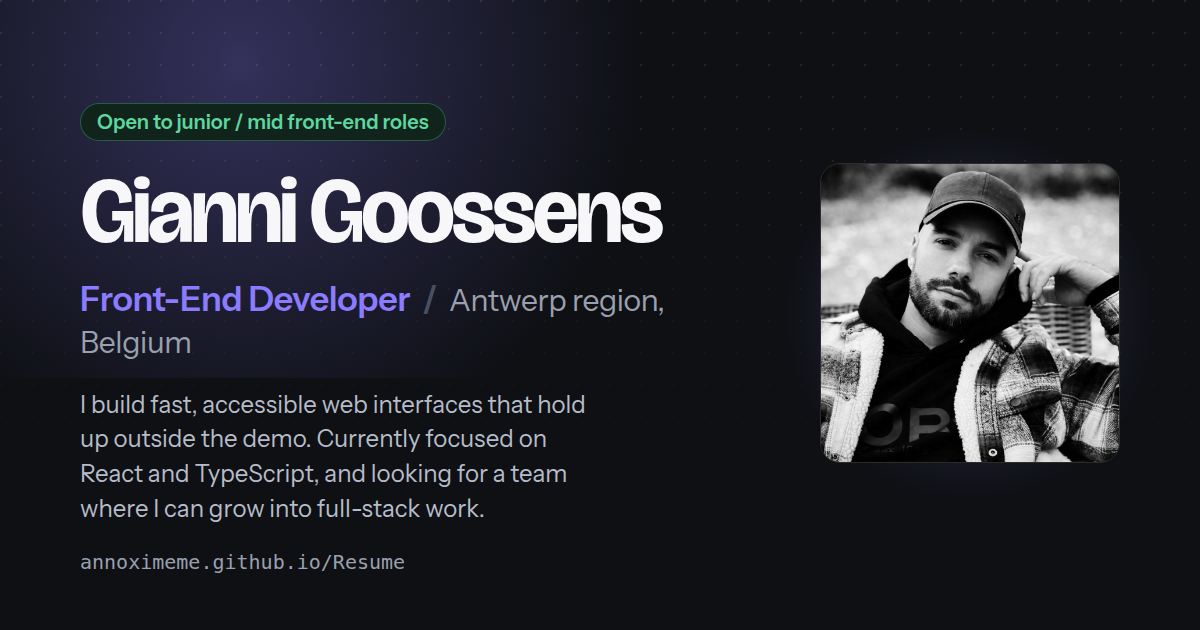
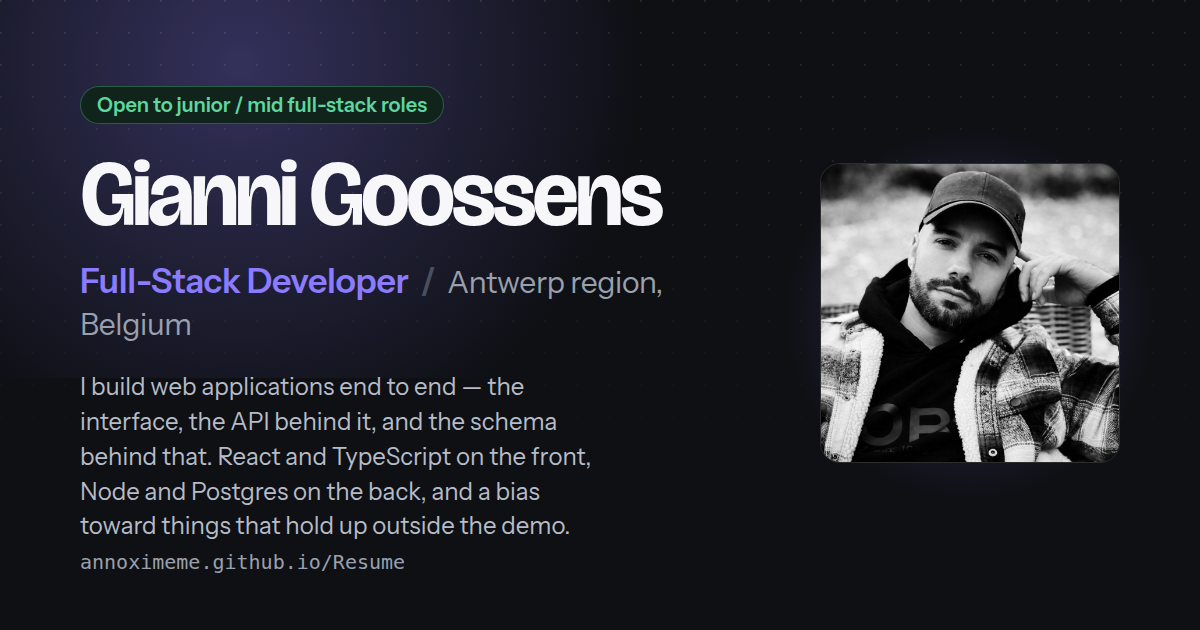
Present the role as full-stack, front to schema
profile.title becomes Full-Stack Developer, and the copy around it moves with
it rather than leaving the old framing in place. The pitch used to end by
asking for "a team where I can grow into full-stack work", which reads oddly
under the new title, so it now describes working end to end: the interface,
the API behind it, and the schema behind that.

The About paragraphs make the same turn. The middle one argues the position
rather than asserting it — working both sides means the API gets designed
around what the screen needs and the schema around what the API asks for,
instead of each being handed down and worked around — and a fourth was split
out to say which unglamorous parts matter on each side. The availability
badge and the "looking for" line follow.

Deliberately unchanged: the skills list. Node, Express, REST APIs, Postgres
and Prisma were already declared there and are what back the claim; adding to
them to dress up the title would be inventing experience, which is the one
thing a resume must not do. Worth checking that group says what you want it
to now that it is load-bearing.

index.html carries the title, description, both Open Graph strings, the image
alt and the JSON-LD jobTitle, since crawlers read those before any JavaScript
runs. The social card is regenerated — it reads name, title, location, pitch
and availability straight out of the content file, so it could not have
drifted, but it did need rebuilding to pick them up.

Changed region(s): [[0.0617, 0.1206, 0.555, 0.3921], [0.0617, 0.6032, 0.4933, 0.8746], [0.0617, 0.4222, 0.555, 0.573]]

diff --git a/src/components/DuotoneImage.tsx b/src/components/DuotoneImage.tsx
@@ -100,29 +100,85 @@ export function DuotoneImage({ src, alt, className, legend = false }: Props) {
     }
 
     /*
-     * Four stops rather than two. A straight shadow-to-highlight interpolation
-     * runs through the midpoint of the two endpoints, which for a dark ink and
-     * a light ground is a dead grey — the tones that carry a face all land in
-     * it. Routing the quarter-tones through the two accents keeps the midrange
-     * coloured, which is the whole point of a duotone.
+     * Four palette colours, ordered by their own luminance rather than by the
+     * job they do.
+     *
+     * Role order does not survive a theme switch: --c-text is near-black on
+     * the light theme and near-white on the dark one, so a ramp that puts it
+     * at the shadow end inverts the photograph the moment the theme flips —
+     * which is exactly what the first version of this did. Sorting by measured
+     * luminance, and seating each colour at the luminance it actually has,
+     * gives a monotonic ramp in either theme. The mapping it describes is
+     * simply: replace each grey with the palette colour of the same lightness.
      */
-    const stops: [number, Rgb][] = [
-      [0, resolve('--c-text', probe, ctx)],
-      [0.36, resolve('--c-accent', probe, ctx)],
-      [0.72, resolve('--c-tech', probe, ctx)],
-      [1, resolve('--c-bg-raised', probe, ctx)],
-    ]
+    const lum = ([r, g, b]: Rgb) => {
+      const lin = (c: number) => {
+        const s = c / 255
+        return s <= 0.04045 ? s / 12.92 : ((s + 0.055) / 1.055) ** 2.4
+      }
+      return 0.2126 * lin(r) + 0.7152 * lin(g) + 0.0722 * lin(b)
+    }
+
+    const palette = (
+      [
+        ['--c-text', 1],
+        ['--c-accent', 0],
+        ['--c-tech', 0],
+        ['--c-bg-raised', 1],
+      ] as const
+    )
+      // The flag marks the neutral endpoints, which keep their full weight;
+      // the accents are pulled back below.
+      .map(([token, neutral]) => {
+        const rgb = resolve(token, probe, ctx)
+        return { rgb, neutral: neutral === 1, l: lum(rgb) }
+      })
+      .sort((a, b) => a.l - b.l)
 
     document.body.removeChild(probe)
+
+    const lo = palette[0].l
+    const hi = palette[palette.length - 1].l
+    const span = hi - lo || 1
+
+    /*
+     * How far the accent stops are allowed to pull the midtones off neutral.
+     * At full strength the two accents posterise the face into flat bands of
+     * colour; a little over a third reads as a tint on a photograph, which is
+     * what a duotone is meant to look like.
+     */
+    const TINT = 0.38
+
+    const stops: [number, Rgb][] = palette.map((entry) => {
+      const t = (entry.l - lo) / span
+      if (entry.neutral) return [t, entry.rgb]
+      // The grey this tone would have been, interpolated between the two
+      // neutral endpoints, then blended back toward the accent.
+      const a = palette[0].rgb
+      const b = palette[palette.length - 1].rgb
+      const grey: Rgb = [
+        a[0] + (b[0] - a[0]) * t,
+        a[1] + (b[1] - a[1]) * t,
+        a[2] + (b[2] - a[2]) * t,
+      ]
+      return [
+        t,
+        [
+          grey[0] + (entry.rgb[0] - grey[0]) * TINT,
+          grey[1] + (entry.rgb[1] - grey[1]) * TINT,
+          grey[2] + (entry.rgb[2] - grey[2]) * TINT,
+        ],
+      ]
+    })
 
     const next: Rgb[] = []
     for (let i = 0; i < 256; i++) {
       const t = i / 255
-      let hi = 1
-      while (hi < stops.length - 1 && stops[hi][0] < t) hi++
-      const [t0, c0] = stops[hi - 1]
-      const [t1, c1] = stops[hi]
-      const k = t1 === t0 ? 0 : (t - t0) / (t1 - t0)
+      let idx = 1
+      while (idx < stops.length - 1 && stops[idx][0] < t) idx++
+      const [t0, c0] = stops[idx - 1]
+      const [t1, c1] = stops[idx]
+      const k = t1 === t0 ? 0 : Math.max(0, Math.min(1, (t - t0) / (t1 - t0)))
       next.push([
         c0[0] + (c1[0] - c0[0]) * k,
         c0[1] + (c1[1] - c0[1]) * k,

diff --git a/src/content/resume.ts b/src/content/resume.ts
@@ -87,12 +87,12 @@ export type Education = {
 export const profile = {
   name: 'Gianni Goossens',
   /** One line under your name. Keep it short; it is the first thing read. */
-  title: 'Front-End Developer',
+  title: 'Full-Stack Developer',
   /** The pitch. Two or three sentences, written as you would say it out loud. */
   pitch:
-    'I build fast, accessible web interfaces that hold up outside the demo. ' +
-    'Currently focused on React and TypeScript, and looking for a team where ' +
-    'I can grow into full-stack work.',
+    'I build web applications end to end — the interface, the API behind it, ' +
+    'and the schema behind that. React and TypeScript on the front, Node and ' +
+    'Postgres on the back, and a bias toward things that hold up outside the demo.',
   location: 'Antwerp region, Belgium',
   /**
    * Portrait shown in the hero. Swap the image by replacing
@@ -103,7 +103,7 @@ export const profile = {
   portraitAlt: 'Gianni Goossens',
   /** Set to false when you are not looking. Hides the badge in the header. */
   availableForWork: true,
-  availabilityNote: 'Open to junior / mid front-end roles',
+  availabilityNote: 'Open to junior / mid full-stack roles',
   email: 'goossensgianni@gmail.com',
   /**
    * IANA zone, used to show visitors your local time so they know whether
@@ -117,7 +117,7 @@ export const profile = {
    * arrangement, the location and when you can start.
    */
   lookingFor: [
-    'Junior to mid front-end, React and TypeScript',
+    'Junior to mid full-stack, TypeScript across the stack',
     'Antwerp region, or remote within CET ± 2',
     'Full-time, available immediately',
   ],
@@ -136,6 +136,7 @@ export const now = {
   items: [
     'Building this site, and whatever it needs next.',
     'Working through the parts of TypeScript I have been avoiding: generics and narrowing.',
+    'Getting properly comfortable with Postgres query plans rather than guessing at indexes.',
     'Reading up on the WCAG 2.2 additions before the EAA deadline bites.',
   ],
 }
@@ -164,13 +165,16 @@ export const about: string[] = [
     'you change something, you reload, you see whether you were right. That loop ' +
     'is what got me building and what keeps me reading documentation on weekends.',
   'Most of what I know is self-taught and project-driven: I pick something I ' +
-    'actually want to exist, build it end to end, and learn whatever the build ' +
-    'demands. That has meant layout and state management, but also the parts ' +
-    'people skip: keyboard navigation, sensible loading states, and making the ' +
-    'thing work on a phone with a bad connection.',
-  "I'm looking for a first (or next) role on a team that reviews each other's " +
-    'code and cares whether the end result is good. I would rather be the least ' +
-    'experienced person in a strong room than the opposite.',
+    'actually want to exist and build the whole thing, because the interesting ' +
+    'part is usually the seam. Working both sides means the API gets designed ' +
+    'around what the screen actually needs, and the schema around what the API ' +
+    'actually asks for, rather than each one being handed down and worked around.',
+  'The parts people skip are the ones I care about on either side: keyboard ' +
+    'navigation and sensible loading states on the front, and on the back the ' +
+    'migrations, the indexes and the error paths that only show up under load.',
+  "I'm looking for a role on a team that reviews each other's code and cares " +
+    'whether the end result is good. I would rather be the least experienced ' +
+    'person in a strong room than the opposite.',
 ]
 
 /* ── Skills ──────────────────────────────────────────────────────────────── */

diff --git a/src/content/annotations.ts b/src/content/annotations.ts
@@ -20,9 +20,9 @@ export const annotations: Record<string, Annotation> = {
       'Each letter interpolates along the typeface’s real wght and wdth axes by its distance from the pointer. Bricolage Grotesque is a variable font, so this is the outline itself changing shape, not a weight swap or a transform. It is disabled under prefers-reduced-motion and on touch devices, where there is no pointer to follow.',
   },
   portrait: {
-    title: 'A 1-bit dither, computed in the browser',
+    title: 'The photograph is toned by the page it sits on',
     body:
-      'The photo is drawn to a canvas at low resolution, then each pixel is thresholded against a 4x4 Bayer matrix to make it pure black or white. The sliders underneath are the actual inputs to that loop. Hovering cross-fades back to the photograph.',
+      'Every pixel\u2019s luminance is looked up in a 256-step ramp built from the palette itself \u2014 the page\u2019s ink, both accent hues, its lightest surface \u2014 read out of the live stylesheet rather than written down here. Switch the theme or the accent and the portrait re-tones with everything else. The stops are ordered by measured luminance rather than by the job each colour does, because role order does not survive a theme switch: the ink is near-black on one theme and near-white on the other, and seating it at the shadow end inverted the photograph. Nothing is discarded \u2014 all 256 levels survive \u2014 so the face stays legible in a way a threshold cannot manage. The strip below is five stops sampled out of the same ramp the pixels went through. Hover for the untouched photo.',
   },
   progress: {
     title: 'Reading progress with no JavaScript',
@@ -72,6 +72,6 @@ export const annotations: Record<string, Annotation> = {
   print: {
     title: 'This page is also a PDF',
     body:
-      'A print stylesheet strips the navigation, drops the effects, restores the photograph over the dither and writes link URLs out in full. The same stylesheet is rendered by headless Chrome in CI to produce the downloadable resume, so the file can never drift from the site.',
+      'A print stylesheet strips the navigation, drops the effects, restores the untoned photograph and writes link URLs out in full. The same stylesheet is rendered by headless Chrome in CI to produce the downloadable resume, so the file can never drift from the site.',
   },
 }

diff --git a/index.html b/index.html
@@ -9,18 +9,18 @@
       JavaScript runs, so keep them in sync with src/content/resume.ts.
       (main.tsx re-applies title/description at runtime as a safety net.)
     -->
-    <title>Gianni Goossens — Front-End Developer</title>
+    <title>Gianni Goossens — Full-Stack Developer</title>
     <meta
       name="description"
-      content="Front-end developer building fast, accessible web interfaces with React and TypeScript. Portfolio, experience and contact details."
+      content="Full-stack developer building web applications end to end with TypeScript, React, Node and Postgres. Portfolio, experience and contact details."
     />
     <link rel="canonical" href="https://annoximeme.github.io/Resume/" />
 
     <meta property="og:type" content="profile" />
-    <meta property="og:title" content="Gianni Goossens — Front-End Developer" />
+    <meta property="og:title" content="Gianni Goossens — Full-Stack Developer" />
     <meta
       property="og:description"
-      content="Front-end developer building fast, accessible web interfaces with React and TypeScript."
+      content="Full-stack developer building web applications end to end with TypeScript, React, Node and Postgres."
     />
     <meta property="og:url" content="https://annoximeme.github.io/Resume/" />
     <meta name="twitter:card" content="summary_large_image" />
@@ -30,7 +30,7 @@
     <meta property="og:image:height" content="630" />
     <meta
       property="og:image:alt"
-      content="Gianni Goossens, Front-End Developer, Belgium"
+      content="Gianni Goossens, Full-Stack Developer, Antwerp region, Belgium"
     />
     <meta name="twitter:image" content="https://annoximeme.github.io/Resume/og.png" />
 
@@ -70,7 +70,7 @@
         "@context": "https://schema.org",
         "@type": "Person",
         "name": "Gianni Goossens",
-        "jobTitle": "Front-End Developer",
+        "jobTitle": "Full-Stack Developer",
         "url": "https://annoximeme.github.io/Resume/",
         "address": {
           "@type": "PostalAddress",

diff --git a/README.md b/README.md
@@ -19,6 +19,7 @@ npm run dev      # http://localhost:5173
 | `npm run preview`  | Serve the built `dist` folder                         |
 | `npm run lint`     | Type-check only                                       |
 | `npm run contrast` | Check every colour pair against WCAG AA               |
+| `npm run contrast:rendered` | Check text against the pixels behind it (needs a running preview) |
 | `npm run og`       | Regenerate the social preview image                   |
 | `npm run github`   | Refresh the GitHub activity snapshot                  |
 | `npm run pdf`      | Render `dist/resume.pdf` from a running preview       |
@@ -132,6 +133,41 @@ fails the build and tells you which pair broke. It also fails if an accent is
 named in `accents.ts` with no block in the token file, or the reverse, since
 either one would be a control that silently does nothing.
 
+### Contrast as rendered
+
+`npm run contrast:rendered` is the other half, and it needs a running preview.
+The token check compares `--c-text` against `--c-bg`; the page puts a dot
+lattice, a film grain and a drifting ambient wash *between* those two, and none
+of them appear in the token file. A pair can measure 17.5:1 in the palette and
+land well under it on screen — which is exactly what happened when the ambient
+wash was first turned up, with the token check staying green throughout.
+
+So this one measures pixels. It loads the built site, hides the glyphs,
+photographs the page, and compares each run of text against the background
+actually behind it. Four things it has to get right, all learned the hard way:
+
+- **Colours are resolved through a canvas, never parsed.** Chrome returns
+  computed colours in the syntax they were authored in, so this stylesheet's
+  arrive as `oklch(0.77 0.012 265)`. A regex pulling numbers out of that reads
+  `0.77, 0.012, 265` as RGB bytes.
+- **Text runs are measured with a `Range`, not element boxes.** A box includes
+  its padding, its rounded corners where the page shows through, and any
+  sibling decoration inside it.
+- **Runs are clipped to their element's box**, or the `visually-hidden` helper
+  reports a full-size rect for text nobody can see.
+- **Occluded runs are skipped.** Text under the sticky header is photographed
+  with the header over it. Every element is sampled at several scroll offsets,
+  so dropping the occluded pass costs no coverage.
+
+It measures a 4×4 average rather than the worst pixel. A single lattice dot
+behind a glyph does lower the ratio there, but nobody reads a pixel, and
+worst-pixel flags every textured background ever drawn.
+
+It runs in CI against the built site and blocks the deploy, because unreadable
+text is not a cosmetic problem. It caught two things the token check could not:
+`--c-text-faint` had 11% of headroom and the ground was spending all of it, and
+`--c-tech` was doing the same.
+
 If you add a surface colour, add its pairs to that script. The list is the
 whole safety net: `--c-bg-sunken` was missing from it once, and a palette
 shipped with 4.19:1 text in the footer as a result. If you want a lighter grey than it allows,
@@ -197,9 +233,19 @@ designer's. Section labels are rendered as source comments (`// 03_experience`),
 the gutter numerals are mono, the nav is lowercase mono, and the ground is
 ruled graph paper rather than a decorative dot field.
 
-**The portrait** is a 1-bit ordered (Bayer) dither computed on a canvas at load,
-cross-fading to the photograph on hover or focus. The two sliders under it are
-the actual inputs to that loop, not a simulation of them.
+**The portrait** is a duotone, mapped on a canvas at load and cross-fading to
+the photograph on hover or focus. Each pixel's luminance is looked up in a
+256-step ramp built from the palette itself, read out of the live stylesheet,
+so the photograph re-tones when the theme or the accent changes instead of
+sitting on top of the palette as an unrelated image.
+
+The stops are ordered by measured luminance rather than by the job each colour
+does. Role order doesn't survive a theme switch — `--c-text` is near-black on
+one theme and near-white on the other — so a ramp that seats it at the shadow
+end inverts the photograph the moment the theme flips. Sorting by luminance
+and seating each colour at the lightness it actually has gives a monotonic
+ramp either way, and the accents are pulled back toward neutral so the result
+reads as a tint on a photograph rather than a poster.
 
 **A living design system** at `#/system`, linked from the footer. Colours, type
 scale and spacing are read from the running stylesheet, and the contrast figures
